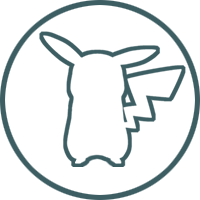
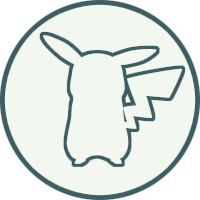
Misc styling

diff --git a/src/components/PokeModal.jsx b/src/components/PokeModal.jsx
@@ -117,7 +117,7 @@ const PokeModal = ({ closePokeModal, selectedPokemon, pokemonTeam, setPokemonTea
 								<h2 className={showNicknameInput ? "poke-modal__namebox__name-hidden" : ""}>{displayName.substring(0, 1).toUpperCase() + displayName.substring(1)}</h2>
 
 								{isTeamView && !showNicknameInput ?
-									<button className="poke-modal__namebox__rename-button"
+									<button className="poke-modal__namebox__rename-button "
 										onClick={(e) => { e.stopPropagation(), setShowNicknameInput(true) }}>
 										<img src={EditNameIcon} alt="Edit name" />
 									</button> : null}
@@ -152,8 +152,8 @@ const PokeModal = ({ closePokeModal, selectedPokemon, pokemonTeam, setPokemonTea
 
 					</div>
 					<div className="poke-modal__footer">
-						{isTeamView ? <button className="poke-modal__addremove-button" onClick={(e) => { e.stopPropagation, removePokemonFromTeam() }}> Remove from team </button> :
-							<button className="poke-modal__addremove-button" onClick={(e) => { e.stopPropagation, addPokemonToTeam() }}> Add to team </button>}
+						{isTeamView ? <button className="poke-modal__addremove-button button-click" onClick={(e) => { e.stopPropagation, removePokemonFromTeam() }}> Remove from team </button> :
+							<button className="poke-modal__addremove-button button-click" onClick={(e) => { e.stopPropagation, addPokemonToTeam() }}> Add to team </button>}
 					</div>
 
 				</>}

diff --git a/src/components/NavBar.css b/src/components/NavBar.css
@@ -1,18 +1,54 @@
 nav {
 	/* outline: 1px solid white;
 	outline-offset: -1px; */
+	display: flex;
+	align-items: center;
+	justify-content: space-evenly;
 	padding: 1rem 0rem;
+	border: 1px solid white;
+	max-width: 1000px;
+	margin-inline: auto;
+	margin-top: 10px;
+	border-top-right-radius: 1rem;
+	border-top-left-radius: 1rem;
+	font-family: "Lato";
 }
 
+/* nav::after {
+	content: "";
+	position: absolute;
+	left: calc(20% - 2px);
+	top: 15%;
+	height: 100px;
+	width: 1px;
+	background-color: #ffffff;
+} */
 
+nav img {
+	max-width: 50px;
+	/* filter: drop-shadow(0px 0px 3px var(--colour-btn-green)); */
+	margin-bottom: 5px;
+	border-radius: 1.5rem;
+	box-shadow: 0px 0px 2px 4px var(--colour-btn-green), 0px 0px 1px 5px var(--color-item-darkblue);
+}
 
 nav a {
+	display: flex;
+	flex-direction: column;
+	justify-content: center;
+	align-items: center;
 	text-decoration: none;
 	padding: 0.25rem 0.5rem;
-	color: white;
-
+	color: var(--color-item-darkblue);
+	text-shadow: 0px 0px 1px black, 1px 2px 2px white;
 }
 
 nav a.active {
 	border-bottom: 2px solid white;
+
+}
+
+nav a.active img {
+	border-radius: 1.5rem;
+	box-shadow: 0px 0px 2px 4px var(--color-item-darkblue);
 }

diff --git a/src/App.css b/src/App.css
@@ -19,11 +19,13 @@
   text-align: center;
   display: flex;
   flex-direction: column;
+  background: rgb(71, 131, 123);
+  background: radial-gradient(circle, rgba(71, 131, 123, 1) 40%, rgba(117, 203, 154, 1) 100%);
+  background-image: url("./assets/images/brushed-alum-dark.png"), linear-gradient(0deg, rgba(71, 131, 123, 1) 40%, rgba(117, 203, 154, 1) 100%);
 }
 
 
 .App-header {
-  background-color: #282c34;
   background-color: transparent;
   min-height: 10vmin;
   align-items: center;
@@ -37,6 +39,8 @@
 
 .App-header h1 {
   background-color: #282c34;
+  padding-top: 0.5rem;
+  padding-bottom: 0.5rem;
   font-size: calc(10px + 7vmin);
   font-family: Pokemon;
   color: #ffcc03;
@@ -57,11 +61,12 @@
   /* min-height: calc(100vh - 5vmax); */
   min-height: 100vh;
   border-radius: 1rem;
-
 }
+
 
 /*Temp footer, divide up into sections depending on how much content it'll contain*/
 footer {
+  margin-top: 1rem;
   color: white;
   background: #282c34;
   min-height: 5vmax;

diff --git a/src/components/Paginate.css b/src/components/Paginate.css
@@ -1,23 +1,25 @@
 .pagination-container {
 	width: 100%;
-	position: absolute;
 	bottom: 0;
+	position: absolute;
 	display: flex;
 	padding: 1rem;
 	justify-content: space-evenly;
 	margin-inline: auto;
-	outline: 2px solid var(--colour-item-blue);
+	outline: 2px solid var(--colour-grad-light);
 	outline-offset: -6px;
 	border-radius: 1.5rem;
 	list-style: none;
+	align-self: flex-end;
 }
 
 
 .pagination-container a {
-	border-radius: 1rem;
+	font-family: "Lato";
 	padding: 0.2rem 0.5rem;
+	padding-top: 0rem;
+	border-radius: 1rem;
 	cursor: pointer;
-	border-bottom: 2px solid var(--colour-item-blue);
 }
 
 .pagination-container a:active {}
@@ -26,14 +28,14 @@
 .pagination-next {
 	color: white;
 
-	background-color: var(--colour-item-blue);
+	background-color: var(--colour-grad-light);
 }
 
 
 .pagination-active a {
 	color: white;
 	font-weight: 600;
-	background-color: var(--colour-item-blue);
+	background-color: var(--colour-grad-light);
 }
 
 .pagination-disabled {

diff --git a/src/components/NavBar.jsx b/src/components/NavBar.jsx
@@ -1,4 +1,7 @@
 import { NavLink } from "react-router-dom"
+import PokeCircle from "../assets/images/poke-circle.png"
+import PikaCircle from "../assets/images/pika-circle.png"
+import PokedexCircle from "../assets/images/pokedex-circle.png"
 import "./NavBar.css"
 
 
@@ -6,9 +9,9 @@ const NavBar = () => {
 
 	return (
 		<nav>
-			<NavLink to="/"> Start </NavLink>
-			<NavLink to="/browsepokemon"> Browse Pokemon </NavLink>
-			<NavLink to="/teambuilder"> Team Builder </NavLink>
+			<NavLink to="/"> <img src={PokeCircle} alt="" /> Home </NavLink>
+			<NavLink to="/browsepokemon"> <img src={PokedexCircle} alt="" /> Pokédex </NavLink>
+			<NavLink to="/teambuilder"> <img src={PikaCircle} alt="" /> Team Viewer </NavLink>
 		</nav>
 	)
 }

diff --git a/src/index.css b/src/index.css
@@ -16,10 +16,6 @@ body {
     sans-serif;
   -webkit-font-smoothing: antialiased;
   -moz-osx-font-smoothing: grayscale;
-
-  background: rgb(71, 131, 123);
-  background: radial-gradient(circle, rgba(71, 131, 123, 1) 40%, rgba(117, 203, 154, 1) 100%);
-  background-image: url("./assets/images/brushed-alum-dark.png"), radial-gradient(circle, rgba(71, 131, 123, 1) 40%, rgba(117, 203, 154, 1) 100%);
 }
 
 body::-webkit-scrollbar {

diff --git a/src/components/BrowsePokemon.css b/src/components/BrowsePokemon.css
@@ -11,6 +11,7 @@ input {
 	min-width: 100%;
 	align-items: center;
 	border-radius: 1rem;
+	padding-bottom: 3.2rem;
 }
 
 .pokemon-search,
@@ -81,8 +82,7 @@ input {
 /* TEST */
 .pokemon-results__grid {
 
-	padding: 2rem;
-	padding-bottom: 4rem;
+	padding: 0rem 2rem;
 	display: grid;
 	grid-template-columns: repeat(auto-fit, minmax(235px, 1fr));
 	height: 100%;

diff --git a/src/components/TeamBuilder.css b/src/components/TeamBuilder.css
@@ -15,6 +15,7 @@
 	/* display: flex;
 	flex-direction: column; */
 	list-style: none;
+	border-radius: 1rem;
 }
 
 
@@ -22,7 +23,7 @@
 .pokemon-team-results__grid {
 
 	padding: 2rem;
-	padding-bottom: 4rem;
+	border-radius: 1rem;
 	display: grid;
 	grid-template-columns: repeat(auto-fill, minmax(235px, 1fr));
 	height: 100%;

diff --git a/src/components/PokeModal.css b/src/components/PokeModal.css
@@ -31,8 +31,14 @@
 	color: var(--color-item-darkblue);
 }
 
-.poke-modal::backdrop {
-	background: pink;
+.poke-modal::backdrop {}
+
+.button-click:active {
+	transform: translateY(4px);
+}
+
+.button-click:hover {
+	box-shadow: 0px 2px 5px var(--color-item-darkblue);
 }
 
 .poke-modal__header {}
